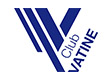
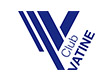
Update from Forestry.io Maison de l'architecture de Normandie created static/files/la-vatine.jpg Maison de l'architecture de Normandie updated static/pages/partenaires.md

Changed region(s): [[0.1071, 0.1, 0.8839, 0.9]]

diff --git a/static/pages/partenaires.md b/static/pages/partenaires.md
@@ -5,7 +5,7 @@ description: ''
 ---
 ## Partenaires financiers
 
-![](/files/logos3.jpg)![](/files/logos7.jpg)![](/files/logos.jpg)![](/files/logos5.jpg)![](/files/logos6.jpg)![](/files/logos2.jpg)![](/files/logos4.jpg)![](/files/logos9.jpg)![](/files/logos8.jpg)![](/files/bois-guillaume.jpg)![](/files/logos13.jpg)![](/files/logos10.jpg)![](/files/logeo.jpg)![](/files/dalkia.jpg)![](/files/logo-engie-partenaire-financier.jpg)![](/files/la-vatine.jpg)![](/files/logos14.jpg)
+![](/files/logos3.jpg)![](/files/logos7.jpg)![](/files/logos.jpg)![](/files/logos5.jpg)![](/files/logos6.jpg)![](/files/logos2.jpg)![](/files/logos4.jpg)![](/files/logos9.jpg)![](/files/logos8.jpg)![](/files/bois-guillaume.jpg)![](/files/logos13.jpg)![](/files/logos10.jpg)![](/files/logeo-1.jpg)![](/files/dalkia-1.jpg)![](/files/engie.jpg)![](/files/la-vatine.jpg)![](/files/logos14.jpg)
 
 ## Partenaires de projet
 
